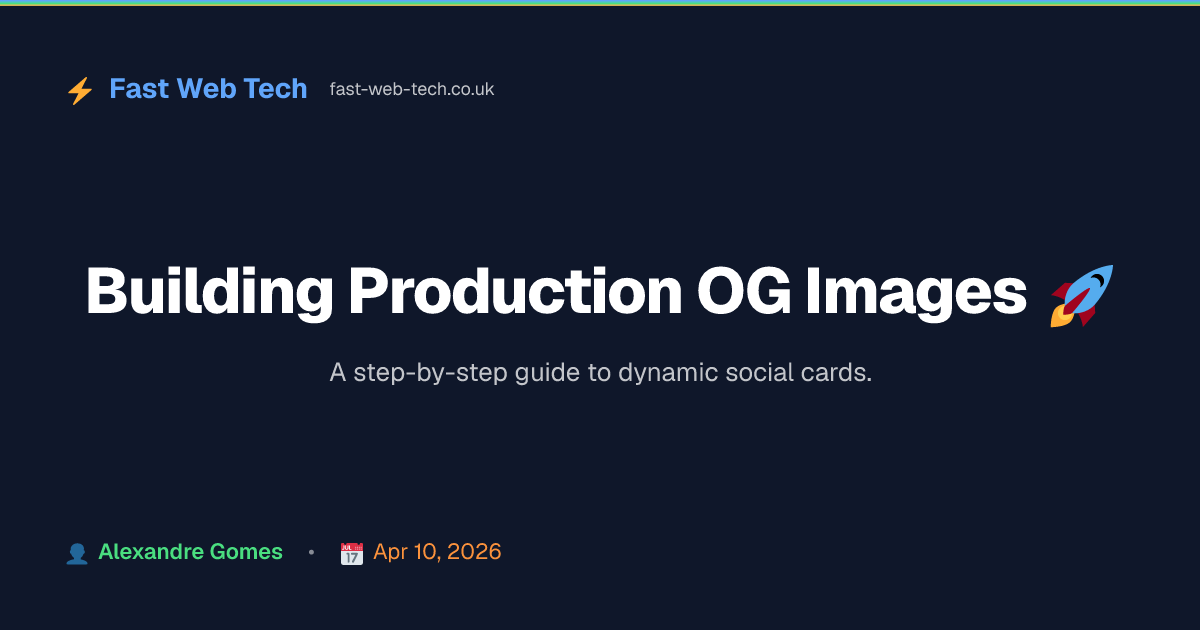
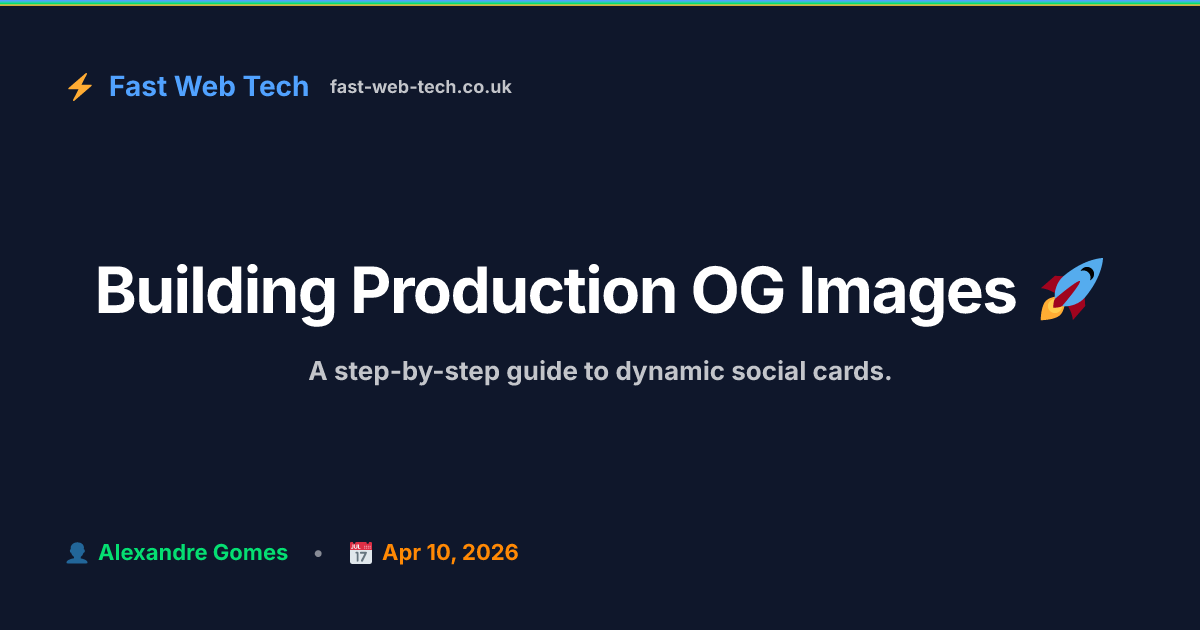
chore: reorganize redis and drizzle infrastructure
- Move redis client logic from `src/lib/queues` to `src/lib/redis`
- Consolidate database and environment test scripts into dedicated test files
- Update `package.json` scripts to use `bun --bun` for improved performance
- Bump `@astrojs/node`, `@astrojs/react`, and `astro` dependencies
- Refactor OG cache to use the new redis client location

diff --git a/src/lib/redis/test.client.redis.vps.ts b/src/lib/redis/test.client.redis.vps.ts
@@ -1,0 +1,26 @@
+import { redisVps } from '@/lib/redis/client.redis.vps';
+
+redisVps.on('connect', () => console.log('✅ Connected to DragonflyDB!'));
+redisVps.on('error', (err) => console.error('❌ Redis error:', err.message));
+try {
+  const ping = await redisVps.ping();
+  console.log('PING:', ping);
+
+  await redisVps.set('og:test', 'hello world');
+  console.log('SET og:test ✅');
+
+  const value = await redisVps.get('og:test');
+  console.log('GET og:test:', value);
+
+  await redisVps.get('unauthorized:key');
+} catch (err: any) {
+  console.error('❌ Redis error ❌:', err?.message);
+} finally {
+  try {
+    await redisVps.quit();
+  } catch (quitErr: any) {
+    console.error('❌ Redis quit error ❌:', quitErr?.message);
+  } finally {
+    await redisVps.disconnect(); // force-close the socket regardless of quit()'s outcome
+  }
+}

diff --git a/src/lib/redis/client.redis.vps.ts b/src/lib/redis/client.redis.vps.ts
@@ -35,22 +35,3 @@ if (envServer.PRODUCTION === 'false') {
 }
 
 export { redisVps };
-redisVps.on('connect', () => console.log('✅ Connected to DragonflyDB!'));
-redisVps.on('error', (err) => console.error('❌ Redis error:', err.message));
-try {
-  const ping = await redisVps.ping();
-  console.log('PING:', ping);
-
-  await redisVps.set('og:test', 'hello world');
-  console.log('SET og:test ✅');
-
-  const value = await redisVps.get('og:test');
-  console.log('GET og:test:', value);
-
-  await redisVps.get('unauthorized:key');
-} catch (err: any) {
-  console.error('❌ Redis error ❌:', err?.message);
-}
-
-redisVps.on('connect', () => console.log('✅ Connected to DragonflyDB!'));
-redisVps.on('error', (err) => console.error('❌ Redis error:', err.message));

diff --git a/src/lib/drizzle/test.client.pg.db.ts b/src/lib/drizzle/test.client.pg.db.ts
@@ -19,7 +19,7 @@ try {
   console.log('INSERT og_test ✅');
 
   const result = await db.select().from(ogTest).where(eq(ogTest.key, 'og:test'));
-  console.log('SELECT og_test:', result[0].value);
+  console.log('SELECT og_test:', result[0].value, '✅');
 } catch (err: any) {
   console.error('❌ Postgres error ❌:', err?.message);
 } finally {

diff --git a/src/server/seo/og/cache.redis.ts b/src/server/seo/og/cache.redis.ts
@@ -1,7 +1,7 @@
 // src/server/seo/og/cache.redis.ts
 import { createHash } from 'node:crypto';
 
-import { redisVps } from '@/lib/queues/redis.vps';
+import { redisVps } from '@/lib/redis/client.redis.vps';
 
 // src/server/seo/og/og.route.ts
 

diff --git a/src/lib/env/test.env.ts b/src/lib/env/test.env.ts
@@ -1,0 +1,5 @@
+import { envClient } from '@/lib/env/client.env';
+import { envServer } from '@/lib/env/server.env';
+
+console.log('envServer:', envServer, '✅');
+console.log('envClient:', envClient, '✅');
